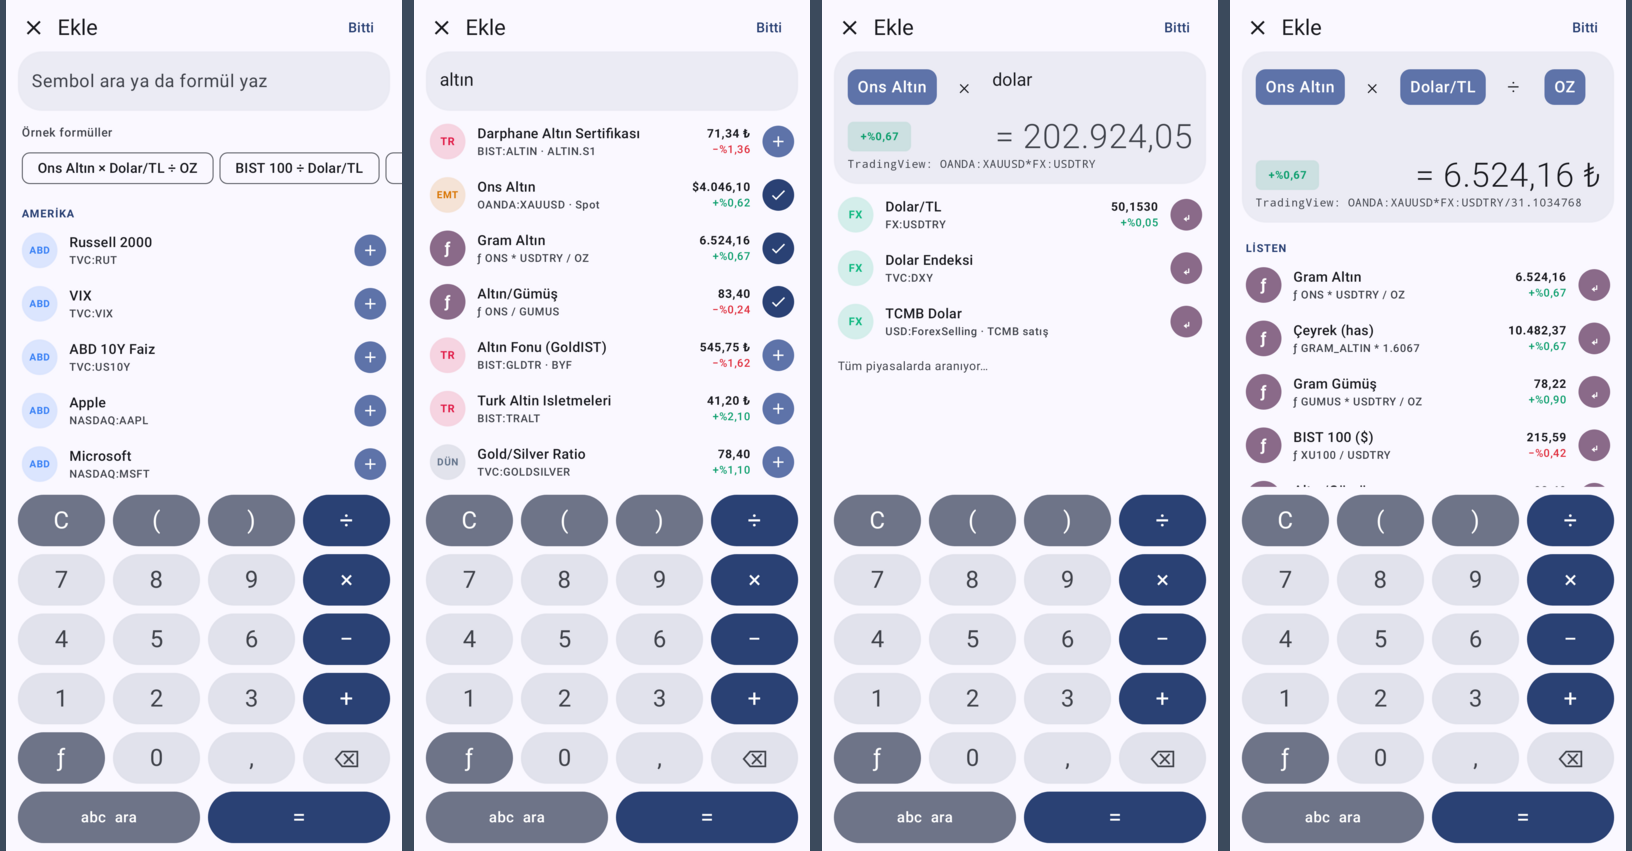
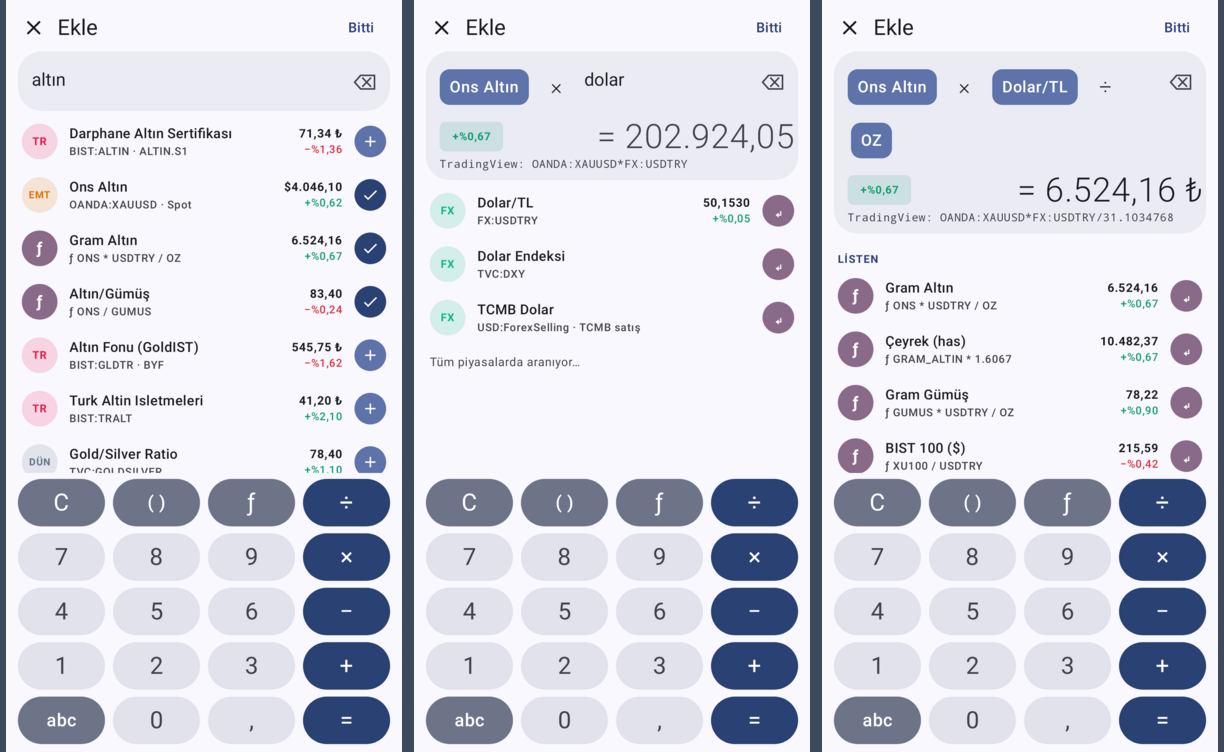
Ekle ekranı: alt satır gezinme çubuğunda kalmıyor, daha kompakt tuş takımı (0.4.1)
- Ekle ekranı Dialog penceresi yerine etkinlik içinde tam ekran katman:
  gezinme çubuğu ve klavye boşlukları (insets) doğru uygulanıyor; geri tuşu
  kapatıyor; MainActivity windowSoftInputMode=adjustResize
- Tuş takımı 6 satırdan 5 satıra (Google Hesap Makinesi düzeni):
  C ( ) ƒ ÷ / 7 8 9 × / 4 5 6 − / 1 2 3 + / abc 0 , =; tuş yüksekliği 48dp
- Akıllı ( ) tuşu: bağlama göre açar/kapatır, değerden sonra × ekler
- ⌫ ekranın yanına taşındı; basılı tutunca hepsini siler

Claude-Session: https://claude.ai/code/session_01KF8Uof2KB9JTS1wQXH5XRy

diff --git a/app/src/main/java/com/piyasa/widget/ui/Composer.kt b/app/src/main/java/com/piyasa/widget/ui/Composer.kt
@@ -156,26 +156,10 @@ internal fun suggestUnit(tokens: List<String>): Pair<String, String> {
     return "" to ""
 }
 
-@Composable
-fun ComposerDialog(
-    state: AppState,
-    editing: Formula?,
-    onClose: () -> Unit,
-    onAddInstrument: (Instrument) -> Unit,
-    onUndoInstrument: (Instrument) -> Unit,
-    onSaveFormula: (formula: Formula, originalKey: String?, needed: List<Instrument>) -> Unit,
-    onDeleteFormula: (String) -> Unit,
-) {
-    Dialog(
-        onDismissRequest = onClose,
-        properties = DialogProperties(usePlatformDefaultWidth = false, decorFitsSystemWindows = false),
-    ) {
-        Surface(Modifier.fillMaxSize(), color = MaterialTheme.colorScheme.surface) {
-            ComposerScreen(state, editing, onClose, onAddInstrument, onUndoInstrument, onSaveFormula, onDeleteFormula)
-        }
-    }
-}
-
+/**
+ * Ekle ekranı. Dialog penceresi yerine etkinliğin içinde tam ekran çizilir:
+ * böylece gezinme çubuğu ve klavye boşlukları (insets) doğru hesaplanır.
+ */
 @OptIn(ExperimentalLayoutApi::class, ExperimentalFoundationApi::class)
 @Composable
 fun ComposerScreen(
@@ -264,6 +248,19 @@ fun ComposerScreen(
             pending.isNotEmpty() -> setPending(pending.dropLast(1))
             sel != null && sel in tokens.indices -> { tokens.removeAt(sel); selected = null }
             tokens.isNotEmpty() -> tokens.removeAt(tokens.lastIndex)
+        }
+    }
+
+    /** Tek "( )" tuşu: açık parantez varsa ve önünde bir değer duruyorsa kapatır, yoksa açar. */
+    fun smartParen() {
+        if (!commitPending()) return
+        val open = tokens.count { it == "(" || Tokens.isFunction(it) } - tokens.count { it == ")" }
+        val last = tokens.lastOrNull()
+        val lastIsValue = last != null && (Tokens.isVariable(last) || Tokens.isNumber(last) || last == ")")
+        when {
+            open > 0 && lastIsValue -> tokens += ")"
+            lastIsValue -> { tokens += "*"; tokens += "(" } // 2(…) → 2 × (…)
+            else -> tokens += "("
         }
     }
 
@@ -383,9 +380,10 @@ fun ComposerScreen(
                 shape = RoundedCornerShape(24.dp),
                 color = MaterialTheme.colorScheme.surfaceVariant.copy(alpha = 0.55f),
             ) {
-                Column(Modifier.padding(horizontal = 14.dp, vertical = 12.dp)) {
+                Column(Modifier.padding(start = 14.dp, end = 4.dp, top = 8.dp, bottom = 8.dp)) {
+                    Row(verticalAlignment = Alignment.Top) {
                     FlowRow(
-                        Modifier.fillMaxWidth().heightIn(min = 36.dp).clickable { runCatching { focus.requestFocus() }; keyboard?.show() },
+                        Modifier.weight(1f).padding(top = 4.dp).heightIn(min = 36.dp).clickable { runCatching { focus.requestFocus() }; keyboard?.show() },
                         horizontalArrangement = Arrangement.spacedBy(4.dp),
                         verticalArrangement = Arrangement.spacedBy(6.dp),
                     ) {
@@ -410,6 +408,17 @@ fun ComposerScreen(
                                 }
                             },
                         )
+                    }
+                    // ⌫ ekranın yanında (hesap makinelerindeki gibi); basılı tutunca hepsini siler
+                    if (tokens.isNotEmpty() || pending.isNotEmpty()) {
+                        Box(
+                            Modifier.size(44.dp).combinedClickable(
+                                onClick = ::backspace,
+                                onLongClick = { tokens.clear(); setPending(""); selected = null; needed.clear() },
+                            ),
+                            contentAlignment = Alignment.Center,
+                        ) { Text("⌫", fontSize = 22.sp, color = MaterialTheme.colorScheme.onSurfaceVariant) }
+                    }
                     }
                     // Büyük sonuç (hesap makinesi gibi)
                     if (formulaMode) {
@@ -523,10 +532,8 @@ fun ComposerScreen(
                         else { commitPending(); tokens += ";" }
                     },
                     onOperator = ::pushOperator,
-                    onOpen = { if (pending.isNotBlank()) commitPending(); tokens += "(" },
-                    onClose = { commitPending(); tokens += ")" },
+                    onParen = ::smartParen,
                     onClear = { tokens.clear(); setPending(""); selected = null; needed.clear() },
-                    onBackspace = ::backspace,
                     onEquals = ::submit,
                     onFunction = { fnMenu = true },
                     onLetters = { runCatching { focus.requestFocus() }; keyboard?.show() },
@@ -633,16 +640,22 @@ private fun ExprChip(label: String, kind: Kind, selected: Boolean, onClick: () -
     }
 }
 
-/** Tanıdık hesap makinesi düzeni. */
+/**
+ * Tanıdık hesap makinesi düzeni (Google Hesap Makinesi gibi 4×5):
+ *   C   ( )  ƒ   ÷
+ *   7   8    9   ×
+ *   4   5    6   −
+ *   1   2    3   +
+ *   abc 0    ,   =
+ * ⌫ ekranın yanında durur.
+ */
 @Composable
 private fun Keypad(
     onDigit: (String) -> Unit,
     onComma: () -> Unit,
     onOperator: (String) -> Unit,
-    onOpen: () -> Unit,
-    onClose: () -> Unit,
+    onParen: () -> Unit,
     onClear: () -> Unit,
-    onBackspace: () -> Unit,
     onEquals: () -> Unit,
     onFunction: () -> Unit,
     onLetters: () -> Unit,
@@ -655,13 +668,16 @@ private fun Keypad(
     val num = MaterialTheme.colorScheme.surfaceVariant
     val onNum = MaterialTheme.colorScheme.onSurfaceVariant
     Column(
-        Modifier.fillMaxWidth().padding(horizontal = 12.dp, vertical = 8.dp),
-        verticalArrangement = Arrangement.spacedBy(8.dp),
+        Modifier.fillMaxWidth().padding(start = 12.dp, end = 12.dp, top = 6.dp, bottom = 8.dp),
+        verticalArrangement = Arrangement.spacedBy(7.dp),
     ) {
         Row(horizontalArrangement = Arrangement.spacedBy(8.dp)) {
             Key("C", fn, onFn, Modifier.weight(1f), onClick = onClear)
-            Key("(", fn, onFn, Modifier.weight(1f), onClick = onOpen)
-            Key(")", fn, onFn, Modifier.weight(1f), onClick = onClose)
+            Key("( )", fn, onFn, Modifier.weight(1f), onClick = onParen)
+            Box(Modifier.weight(1f)) {
+                Key("ƒ", fn, onFn, Modifier.fillMaxWidth(), onClick = onFunction)
+                fnMenu()
+            }
             Key("÷", op, onOp, Modifier.weight(1f)) { onOperator("/") }
         }
         Row(horizontalArrangement = Arrangement.spacedBy(8.dp)) {
@@ -677,17 +693,10 @@ private fun Keypad(
             Key("+", op, onOp, Modifier.weight(1f)) { onOperator("+") }
         }
         Row(horizontalArrangement = Arrangement.spacedBy(8.dp)) {
-            Box(Modifier.weight(1f)) {
-                Key("ƒ", fn, onFn, Modifier.fillMaxWidth(), onClick = onFunction)
-                fnMenu()
-            }
+            Key("abc", fn, onFn, Modifier.weight(1f), onClick = onLetters)
             Key("0", num, onNum, Modifier.weight(1f)) { onDigit("0") }
             Key(",", num, onNum, Modifier.weight(1f), onClick = onComma)
-            Key("⌫", num, onNum, Modifier.weight(1f), onClick = onBackspace)
-        }
-        Row(horizontalArrangement = Arrangement.spacedBy(8.dp)) {
-            Key("abc  ara", fn, onFn, Modifier.weight(2f), onClick = onLetters)
-            Key("=", op, onOp, Modifier.weight(2f), onClick = onEquals)
+            Key("=", op, onOp, Modifier.weight(1f), onClick = onEquals)
         }
     }
 }
@@ -704,16 +713,16 @@ private fun Key(
 ) {
     Box(
         modifier
-            .height(52.dp)
-            .background(bg, RoundedCornerShape(26.dp))
+            .height(48.dp)
+            .background(bg, RoundedCornerShape(24.dp))
             .combinedClickable(onClick = onClick, onLongClick = onLongClick),
         contentAlignment = Alignment.Center,
     ) {
         Text(
             label,
             color = fg,
-            fontSize = if (label.length <= 2) 24.sp else 15.sp,
-            fontWeight = if (label.length <= 2) FontWeight.Normal else FontWeight.Medium,
+            fontSize = if (label.length <= 1) 24.sp else 18.sp,
+            fontWeight = if (label.length <= 1) FontWeight.Normal else FontWeight.Medium,
         )
     }
 }

diff --git a/app/src/main/java/com/piyasa/widget/ui/MainActivity.kt b/app/src/main/java/com/piyasa/widget/ui/MainActivity.kt
@@ -6,6 +6,7 @@ import android.content.Context
 import android.os.Bundle
 import android.widget.Toast
 import androidx.activity.ComponentActivity
+import androidx.activity.compose.BackHandler
 import androidx.activity.compose.setContent
 import androidx.activity.enableEdgeToEdge
 import androidx.compose.foundation.ExperimentalFoundationApi
@@ -100,6 +101,10 @@ private fun MainScreen() {
     LaunchedEffect(Unit) { RefreshWorker.runNow(context) }
 
     val s = state
+    // Ekle ekranı açıkken geri tuşu onu kapatır
+    BackHandler(enabled = composing != null) { composing = null }
+
+    Box(Modifier.fillMaxSize()) {
     Scaffold(
         topBar = {
             TopAppBar(
@@ -144,22 +149,6 @@ private fun MainScreen() {
                 },
             )
         }
-        composing?.let { target ->
-            ComposerDialog(
-                state = s,
-                editing = target.formula,
-                onClose = { composing = null },
-                onAddInstrument = { ins -> scope.launch { Actions.addInstrument(context, ins) } },
-                onUndoInstrument = { ins -> scope.launch { Actions.removeInstrument(context, ins.key) } },
-                onSaveFormula = { f, originalKey, needed ->
-                    scope.launch {
-                        needed.forEach { Actions.addInstrument(context, it) }
-                        Actions.upsertFormula(context, f, originalKey)
-                    }
-                },
-                onDeleteFormula = { key -> scope.launch { Actions.deleteFormula(context, key) }; composing = null },
-            )
-        }
         if (showSettings) {
             Dialog(onDismissRequest = { showSettings = false }, properties = DialogProperties(usePlatformDefaultWidth = false)) {
                 Surface(Modifier.fillMaxSize(), color = MaterialTheme.colorScheme.surface) {
@@ -173,6 +162,25 @@ private fun MainScreen() {
                 }
             }
         }
+    }
+    // Ekle ekranı: listenin üstünde tam ekran katman (Dialog değil; gezinme çubuğu ve klavye boşlukları doğru)
+    val target = composing
+    if (target != null && s != null) {
+        ComposerScreen(
+            baseState = s,
+            editing = target.formula,
+            onClose = { composing = null },
+            onAddInstrument = { ins -> scope.launch { Actions.addInstrument(context, ins) } },
+            onUndoInstrument = { ins -> scope.launch { Actions.removeInstrument(context, ins.key) } },
+            onSaveFormula = { f, originalKey, needed ->
+                scope.launch {
+                    needed.forEach { Actions.addInstrument(context, it) }
+                    Actions.upsertFormula(context, f, originalKey)
+                }
+            },
+            onDeleteFormula = { key -> scope.launch { Actions.deleteFormula(context, key) }; composing = null },
+        )
+    }
     }
 }
 

diff --git a/app/src/test/java/com/piyasa/widget/widget/BuilderPreviewTest.kt b/app/src/test/java/com/piyasa/widget/widget/BuilderPreviewTest.kt
@@ -78,28 +78,28 @@ class BuilderPreviewTest {
     }
 
     @Test
-    @Config(qualifiers = "w400dp-h860dp-xxhdpi")
+    @Config(qualifiers = "w400dp-h760dp-xxhdpi")
     fun composerEmpty() {
         assumeTrue(System.getProperty("previews") == "true")
         composer("composer_empty")
     }
 
     @Test
-    @Config(qualifiers = "w400dp-h860dp-xxhdpi")
+    @Config(qualifiers = "w400dp-h760dp-xxhdpi")
     fun composerSymbolSearch() {
         assumeTrue(System.getProperty("previews") == "true")
         composer("composer_search", query = "altın")
     }
 
     @Test
-    @Config(qualifiers = "w400dp-h860dp-xxhdpi")
+    @Config(qualifiers = "w400dp-h760dp-xxhdpi")
     fun composerFormula() {
         assumeTrue(System.getProperty("previews") == "true")
         composer("composer_formula", tokens = listOf("ONS", "*", "USDTRY", "/", "OZ"))
     }
 
     @Test
-    @Config(qualifiers = "w400dp-h860dp-xxhdpi")
+    @Config(qualifiers = "w400dp-h760dp-xxhdpi")
     fun composerFormulaTyping() {
         assumeTrue(System.getProperty("previews") == "true")
         composer("composer_formula_typing", tokens = listOf("ONS", "*"), query = "dolar")

diff --git a/README.md b/README.md
@@ -51,7 +51,7 @@ Uygulamada tek bir liste ve tek bir yuvarlak **+** düğmesi vardır. **+** ile 
 
 - **Operatöre basmak, yazılan kelimeyi en iyi eşleşen sembole dönüştürür** (TradingView'daki gibi): önce listendekiler (formüllerin dahil), sonra katalog ve tüm piyasalar. Listende olmayan bir sembol formülde kullanılırsa kaydederken listeye de eklenir.
 - Yazarken **canlı ara sonuç** soluk renkte görünür; ifade tamamlanınca koyulaşır. Günlük değişim ve TradingView karşılığı da gösterilir.
-- Tuş takımı: `C ( ) ÷ / 7 8 9 × / 4 5 6 − / 1 2 3 + / ƒ 0 , ⌫ / abc =`. `ƒ` menüsünde % fark, günlük %, önceki kapanış, ortalama, min/max, yuvarla ve OZ bulunur. `abc` harf klavyesini açar; klavye açıkken tuş takımı gizlenir.
+- Tuş takımı (Google Hesap Makinesi gibi 4×5): `C ( ) ƒ ÷ / 7 8 9 × / 4 5 6 − / 1 2 3 + / abc 0 , =`. Tek `( )` tuşu bağlama göre açar veya kapatır; ⌫ ekranın yanındadır (basılı tutunca temizler). `ƒ` menüsünde % fark, günlük %, önceki kapanış, ortalama, min/max, yuvarla ve OZ bulunur. `abc` harf klavyesini açar; klavye açıkken tuş takımı gizlenir.
 - `=`, ad (otomatik önerilir), birim (yok / ₺ / $ / € / %) ve ondalık seçimi sunar. Formülü düzenlemek için listede uzun basıp *Düzenle*'yi seçin; aynı ekran açılır.
 - Boş ekranda örnek formüller ve önerilen semboller görünür. TCMB kuru veya Yahoo sembolü için *Gelişmiş* bölümü en altta durur.
 
